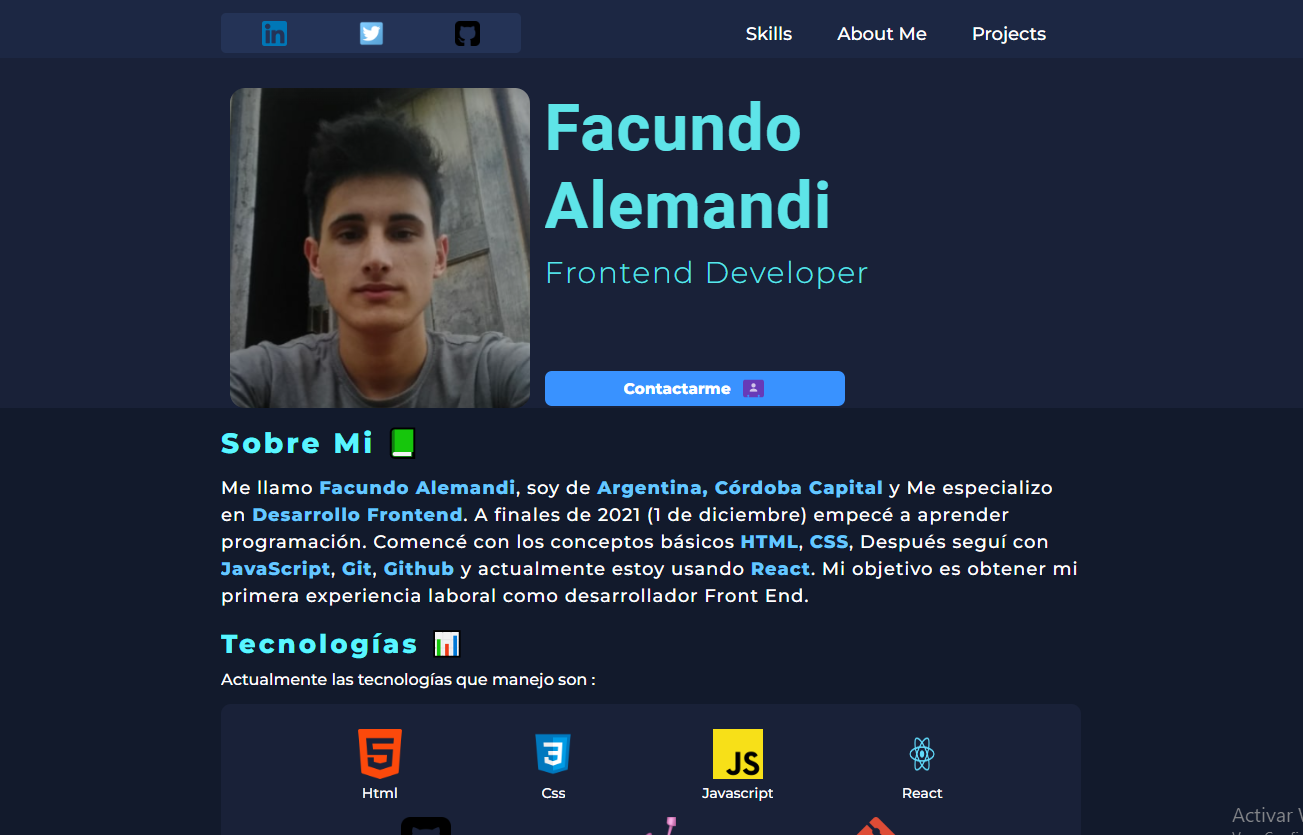
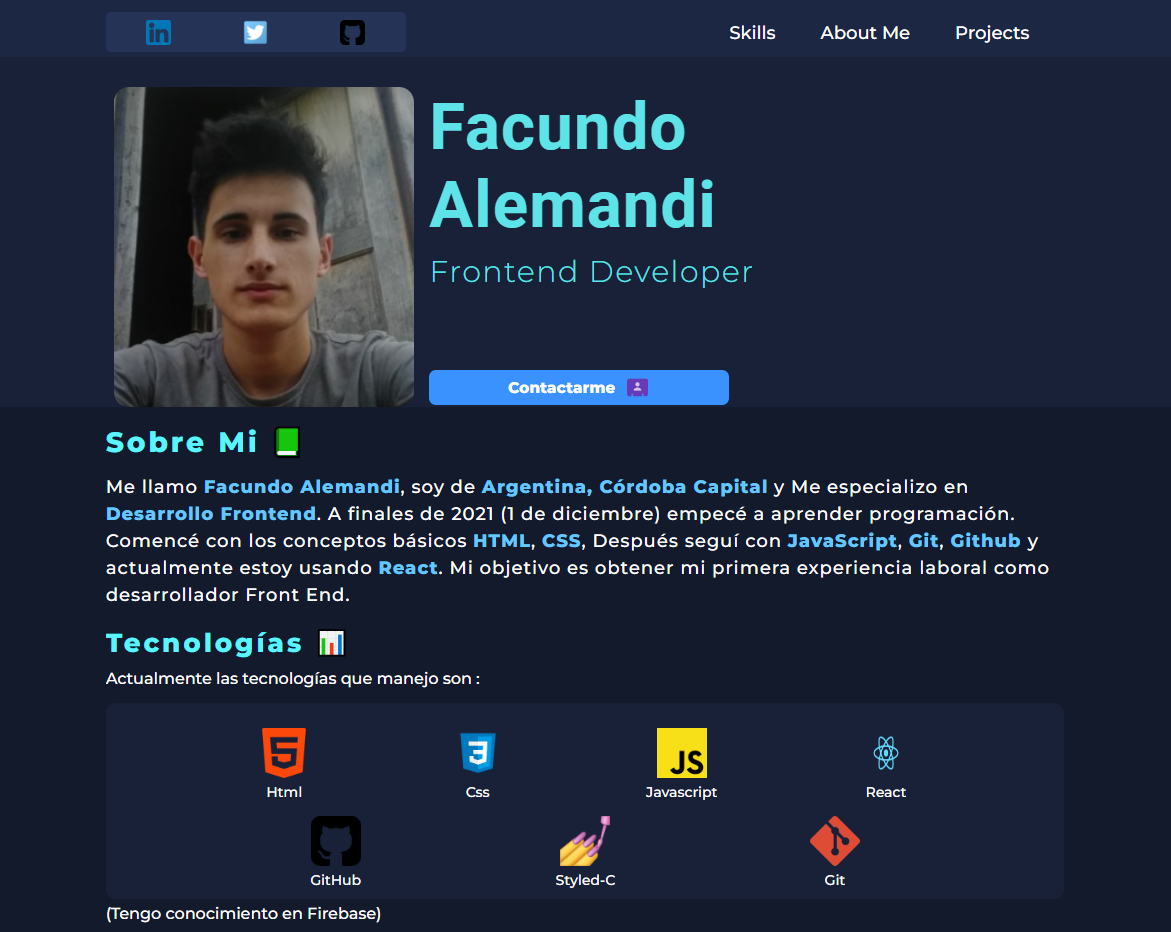
Modificando el media query

diff --git a/src/Styles/StylesProject.js b/src/Styles/StylesProject.js
@@ -30,19 +30,15 @@ const H2 = styled.p`
 `;
 
 const SectionOne = styled.section`
-  width: 85vw;
+  width: 90vw;
   display: flex;
   flex-direction: column;
   margin: auto;
   margin-top: 30px;
 
-  @media (min-width: 800px) {
-    width: 65vw;
-  }
-
-  @media (min-width: 1000px) {
-    width: max-content;
-    padding: 10px;
+  @media (min-width: 1250px) {
+    width: 600px;
+    margin: 0;
   }
 `;
 
@@ -66,26 +62,12 @@ const Li = styled.li`
 `;
 
 const ImgOne = styled.img`
-  width: 85vw;
-  height: 400px;
+  width: 90vw;
+  height: 500px;
   border-radius: 10px;
 
-  @media (min-width: 800px) {
-    width: 65vw;
-    height: 500px;
-  }
-
-  @media (min-width: 1150px) {
-    width: 400px;
-    height: 400px;
-  }
-  @media (min-width: 1350px) {
-    width: 430px;
-    height: 430px;
-  }
-  @media (min-width: 1500px) {
-    width: 35vw;
-    height: 450px;
+  @media (min-width: 1250px) {
+    width: 600px;
   }
 `;
 
@@ -95,9 +77,12 @@ const Point = styled(VscDebugBreakpointData)`
 `;
 
 const ContainerDesktop = styled.section`
-  @media (min-width: 1150px) {
-    width: 75vw;
-    margin: auto;
+  width: 90vw;
+  display: flex;
+  flex-direction: column;
+  margin: auto;
+  @media (min-width: 1250px) {
+    width: 1250px;
     display: grid;
     grid-template-columns: repeat(2, 1fr);
   }
@@ -109,13 +94,11 @@ const ContainerDeploy = styled.section`
   flex-direction: column;
   margin: auto;
   position: relative;
-  @media (min-width: 800px) {
-    width: 65vw;
-  }
 
-  @media (min-width: 1000px) {
-    width: max-content;
-    cursor: pointer;
+  @media (min-width: 1250px) {
+    width: 600px;
+
+    margin: 0;
   }
 `;
 
@@ -127,22 +110,6 @@ const SectionDeploy = styled.section`
   width: 94.5%;
   background-color: rgba(0, 0, 0, 0.549);
   display: ${({ value }) => (!value ? "none" : "block")};
-  @media (min-width: 800px) {
-    width: 65vw;
-    height: 500px;
-  }
-  @media (min-width: 1150px) {
-    width: 400px;
-    height: 400px;
-  }
-  @media (min-width: 1350px) {
-    width: 430px;
-    height: 430px;
-  }
-  @media (min-width: 1500px) {
-    width: 35vw;
-    height: 450px;
-  }
 `;
 
 const GitDeploy = styled.p`
@@ -200,6 +167,6 @@ export const StylesProject = () => {
     Icon,
     Icon1,
     DeployYGithub,
-    LinkToDeploy
+    LinkToDeploy,
   };
 };

diff --git a/src/Styles/StyleSkills.js b/src/Styles/StyleSkills.js
@@ -15,24 +15,23 @@ const H2 = styled.h2`
   letter-spacing: 3px;
   padding-top: 15px;
   padding-bottom: 10px;
-  width: 85vw;
+  width: 90vw;
   color: ${({ valor }) => (!valor ? "#5af5ff" : "#ee5ca5;")};
   transition: 0.5s;
 
-  @media (min-width: 800px) {
-    width: 65vw;
+  @media (min-width: 1250px) {
+    width: 1250px;
   }
 `;
 const Parragraph = styled.p`
   font-size: 16px;
   font-family: "Montserrat", sans-serif;
-  width: 85vw;
+  width: 90vw;
   margin: auto;
   color: ${({ valor }) => (!valor ? "white" : "black")};
   transition: 0.5s;
-
-  @media (min-width: 800px) {
-    width: 65vw;
+  @media (min-width: 1250px) {
+    width: 1250px;
   }
 `;
 
@@ -42,7 +41,7 @@ const ImgSkills = styled.img`
 `;
 
 const SectionOne = styled.section`
-  width: 85vw;
+  width: 90vw;
   display: flex;
   flex-direction: column;
   margin: auto;
@@ -52,8 +51,8 @@ const SectionOne = styled.section`
   margin-top: 15px;
   background-color: ${({ valor }) => (!valor ? "rgb(25, 33, 56)" : "#d2d3d4")};
   transition: 0.5s;
-  @media (min-width: 800px) {
-    width: 65vw;
+  @media (min-width: 1250px) {
+    width: 1250px;
   }
 `;
 
@@ -81,14 +80,14 @@ const NameSkill = styled.p`
 const ParragraphFirebase = styled.p`
   font-size: 16px;
   font-family: "Montserrat", sans-serif;
-  width: 85vw;
+  width: 90vw;
   margin: auto;
   margin-top: 5px;
   color: ${({ valor }) => (!valor ? "white" : "black")};
   transition: 0.5s;
 
-  @media (min-width: 800px) {
-    width: 65vw;
+  @media (min-width: 1250px) {
+    width: 1250px;
   }
 `;
 
@@ -102,6 +101,6 @@ export const StyleSkills = () => {
     ContianerSkills,
     SectionSkillsIcons,
     NameSkill,
-    ParragraphFirebase
-  }
+    ParragraphFirebase,
+  };
 };

diff --git a/src/Components/AboutMe/AboutMe.js b/src/Components/AboutMe/AboutMe.js
@@ -14,20 +14,23 @@ const SectionOne = styled.section`
   flex-direction: column;
   margin: auto;
   padding-top: 15px;
+  @media (min-width: 1250px) {
+    width: 1250px;
+  }
 `;
 
 const H2 = styled.h2`
   font-size: 28px;
   font-family: "Montserrat", sans-serif;
   font-weight: bold;
-  width: 85vw;
+  width: 90vw;
   margin: auto;
   letter-spacing: 3px;
   color: ${({ valor }) => (!valor ? "#5af5ff" : "#ee5ca5")};
   transition: 0.5s;
 
-  @media (min-width: 800px) {
-    width: 65vw;
+  @media (min-width: 1200px) {
+    width: 1250px;
   }
 `;
 
@@ -41,11 +44,12 @@ const Parraagraph = styled.p`
   line-height: 1.5;
   margin: auto;
   margin-top: 15px;
-  width: 85vw;
-  @media (min-width: 800px) {
-    width: 65vw;
+  width: 90vw;
+  @media (min-width: 1250px) {
+    width: 1250px;
   }
 `;
+
 const Bold = styled.b`
   color: ${({ valor }) => (!valor ? "#66c7ff" : "#ff7cbe")};
   transition: 0.5s;
@@ -53,7 +57,6 @@ const Bold = styled.b`
 
 export const AboutMe = ({ isAboutMe }) => {
   const { theme } = useThemeMode();
-
 
   return (
     <>
